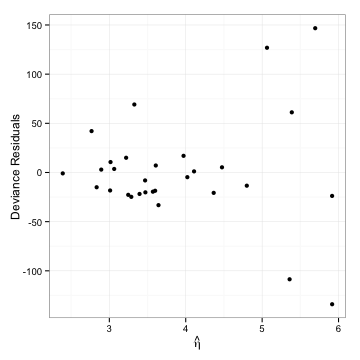
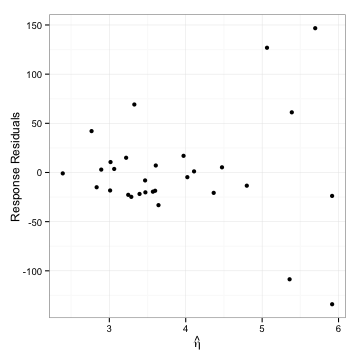
edits to gym

Changed region(s): [[0.0306, 0.3056, 0.0611, 0.6111]]

diff --git a/_site/categories/index.html b/_site/categories/index.html
@@ -82,7 +82,7 @@
             
                 <tr>
                     <td class = "tbl-date"><span>Nov 25, 2015</span></td>
-                    <td class = "tbl-post"><a href="/nhuyhoa//2015/11/GLM-Testing-and-Diagnostics.html">GLM: Hypothesis Testing & Diagnostics</a></td>
+                    <td class = "tbl-post"><a href="/nhuyhoa//2015/11/GLM-Testing-and-Diagnostics.html">GLM: Testing & Diagnostics</a></td>
                 </tr>
             
        

diff --git a/_site/blog/index.html b/_site/blog/index.html
@@ -116,7 +116,7 @@
 
         <tr>
             <td class = "tbl-date"><span>Nov 25, 2015</span></td>  
-            <td class = "tbl-post"><a href="/nhuyhoa//2015/11/GLM-Testing-and-Diagnostics.html">GLM: Hypothesis Testing & Diagnostics</a></td>
+            <td class = "tbl-post"><a href="/nhuyhoa//2015/11/GLM-Testing-and-Diagnostics.html">GLM: Testing & Diagnostics</a></td>
         </tr> 
      
 <!--

diff --git a/_posts/2015-11-25-GLM-Testing-and-Diagnostics.md b/_posts/2015-11-25-GLM-Testing-and-Diagnostics.md
@@ -1,6 +1,6 @@
 ---
 layout: post
-title: "GLM: Hypothesis Testing & Diagnostics"
+title: "GLM: Testing & Diagnostics"
 date: "November 25, 2015"
 categories: statistics
 ---
@@ -16,18 +16,22 @@ categories: statistics
 * Saturated model: model with n obs and n parameters, each data point has its own parameter
 * Proposed model: model with p parameters, model that you fit
 
+## Deviance
 Deviance is defined as 
 $$ D(y) = -2 \left( L(y \vert \hat{\theta}_m)) - L(y \vert \hat{\theta}_s)) \right) $$
 
-where $$L$$ denotes the log likelihood, $$\hat{\theta}_m$$ denotes fitted values for the proposed model and $$\hat{\theta}_s$$ denotes fitted values for the saturated model. 
+where $$L$$ denotes the log likelihood, $$\hat{\theta}_m$$ denotes fitted values for the proposed model and $$\hat{\theta}_s$$ denotes fitted values for the saturated model.
+
 The deviance is asymptotically distributed $$X^2_p$$.
 
-There are two types of hypothesis tests that can be done with GLMs.
+## Pearson X2
+The Pearson $$X^2$$ statistic is
+$$X^2 = \Sigma_i \frac{(y_i - \hat{\mu}_i)^2}{var(\hat{\mu}_i)}$$
 
-* Goodness of fit: does the current model fit the data?
-* Compare two nested models, which one is better?
+The Pearson $$X^2$$ is asymptotically distributed $$X^2_p$$.
 
-Note that the goodness of fit is a comparison of two models (the proposed model and the saturated model).
+## Goodness of Fit Test
+Does the current model fit the data? The goodness of fit is a comparison of two models (the proposed model and the saturated model).
 
 We can fit a glm in R and assess goodness of fit.
 
@@ -82,7 +86,7 @@ With a $$p.value = 0.94$$, we can conclude that there is no evidence of lack of 
 
 
 {% highlight r %}
-# goodness of fit - using pearson
+# goodness of fit - using pearson X2
 pchisq(sum(residuals(mod1, "pearson")^2), mod1$df.residual, lower.tail = FALSE)
 {% endhighlight %}
 
@@ -91,10 +95,12 @@ pchisq(sum(residuals(mod1, "pearson")^2), mod1$df.residual, lower.tail = FALSE)
 {% highlight text %}
 ## [1] 0.9469181
 {% endhighlight %}
-Here we use the Pearson $$X^2$$ statistic
-$$X^2 = \Sigma_i \frac{(y_i - \hat{\mu}_i)^2}{var(\hat{\mu}_i)}$$
+We use the deviance residuals to compute the Pearson residuals $$X^2 = \Sigma r_{pearson}^2$$.
 
-which is computed via the Pearson residuals $$X^2 = \Sigma r_p^2$$
+We see that the result is comparable to the deviance.
+
+## Compare Two Models
+Compare two nested models, which one is better?
 
 
 {% highlight r %}
@@ -157,12 +163,21 @@ The results here indicate no need for a quadratic concentration term.
 
 # Diagnostics
 
+## What Can Go Wrong
+
+When we observe a deviance much larger than expected if the model was correct, we need to determine which aspects of the model specification is incorrect. 
+
+* Wrong structural form: didn't include the right predictors or predictors were not transformed or combined in correct way
+* Presence of outliers
+* Sparse data
+* Overdispersion: variance greater than assumed, which can arise when independent or identical assumptions are violated
+
 ## Residuals
 
 * Response residuals: $$y - \hat{\mu}$$ has non-constant variance
 * Pearson residuals: $$\frac{y - \hat{\mu}}{\sqrt{Var(\hat{\mu})}}$$  , where $$\Sigma r^2_p = X^2$$
 * Deviance residuals: $$sign(y - \hat{\mu}) \sqrt{d}_i$$, where $$\Sigma r^2_d = Deviance$$
-* Jackknife residuals: expensive to compute, but approximations are available
+* Jackknife residuals (studentized residuals): expensive to compute, but approximations are available
 
 ## Leverages
 Since GLMs use the IRWLS algorithm, the leverage values are affected by the weights. The hat matrix is defined by
@@ -231,11 +246,38 @@ When we plot using the response residuals, we will see variation patterns consis
 # response residuals vs fitted link
 qplot(y = residuals(mod, "response"), x = predict(mod, type = "link")) + 
   xlab(expression(hat(eta))) + 
-  ylab("Deviance Residuals")
+  ylab("Response Residuals")
 {% endhighlight %}
 
 <img src="/nhuyhoa/figure/source/2015-11-25-GLM-Testing-and-Diagnostics/unnamed-chunk-9-1.png" title="plot of chunk unnamed-chunk-9" alt="plot of chunk unnamed-chunk-9" style="display: block; margin: auto;" />
 Here we see a pattern of increasing variation consistent with the Poisson distribution. 
+
+### Half-Normal Plot
+We can plot the sorted absolute residuals to the quantiles of the half normal distribution to identify outliers. We look for points off the trend. (The examples used here are different from the model above).
+
+
+
+
+
+{% highlight r %}
+par(mfrow = c(1, 2))
+# half-normal of studentized residuals
+halfnorm(rstudent(modpl))
+# half-norm of leverages
+halfnorm(influence(modpl)$hat)
+{% endhighlight %}
+
+<img src="/nhuyhoa/figure/source/2015-11-25-GLM-Testing-and-Diagnostics/unnamed-chunk-11-1.png" title="plot of chunk unnamed-chunk-11" alt="plot of chunk unnamed-chunk-11" style="display: block; margin: auto;" />
+The half-norm plot of leverage seems to indicate that obs 25 may have high leverage. 
+
+
+{% highlight r %}
+# half-norm of cook's distance
+c <- halfnorm(cooks.distance(modpl))
+{% endhighlight %}
+
+<img src="/nhuyhoa/figure/source/2015-11-25-GLM-Testing-and-Diagnostics/unnamed-chunk-12-1.png" title="plot of chunk unnamed-chunk-12" alt="plot of chunk unnamed-chunk-12" style="display: block; margin: auto;" />
+The half-norm plot indicates that obs 25 has a big Cook's statistic. It might be useful to investigate this observation in closer detail. 
 
 ### Added Variable Plots
 Similar to regression, we can generate added variable plots. The interpretation is similar to linear models.

diff --git a/_posts/2015-11-26-GLM-Logistic-Regression.md b/_posts/2015-11-26-GLM-Logistic-Regression.md
@@ -15,8 +15,12 @@ Suppose the response $$Y_i$$ ~ $$Bin(n_i, p_i)$$ and the $$Y_i$$ are independent
 $$ P(Y_i = y_i) = \left(\begin{array}
 {rrr}
   n \\
-  y
-\end{array}\right) \mu^y (1-\mu)^{n - y} $$
+  y_i
+\end{array}\right) p_i^{y_i} (1-p_i)^{n_i - y_i} $$
+
+From this we can compute the deviance. 
+$$ D = 2 log \left( \frac{L_L}{L_S} \right) $$
+$$ D = 2 \Sigma^n_{i = 1} \big[ y_i log \left( \frac{y_i}{\hat{y}_i} \right) + (n_i - y_i) log \left( \frac{n_i - y_i}{n_i - \hat{y}_i} \right) \big] $$
 
 We face a few problems when our response variable has a binomial distribution. 
 
@@ -34,7 +38,7 @@ All of these link functions differ mostly at the tails. We will use the logit be
 # Logistic Regression Model
 
 We fit the model
-$$log \left( \frac{p}{1 - p} \right) = \beta_0 + \beta_1 x_1 + ... \beta_p x_p$$
+$$log \left( \frac{p}{1 - p} \right) = \beta_0 + \beta_1 x_1 + ... \beta_k x_k$$
 
 We can fit this model in R like so
 
@@ -46,9 +50,6 @@ Here we provide two pieces of information regarding the response. The first colu
 
 Here we see a graphical representation of the data and how well it fits the data. 
 <img src="/nhuyhoa/figure/source/2015-11-26-GLM-Logistic-Regression/unnamed-chunk-3-1.png" title="plot of chunk unnamed-chunk-3" alt="plot of chunk unnamed-chunk-3" style="display: block; margin: auto;" />
-
-# Model Evaluation
-Assessing model fit can be done using deviance. See [GLM: Hypothesis Testing & Diagnostics][glm_diagnostic_link]{:target="blank"}.
 
 # Understanding Output
 
@@ -107,17 +108,20 @@ $$ p = \frac{o}{1 + o} $$
 where $$p$$ is the probability of success and $$o$$ is the odds. 
 
 Odds provide a simple interpretation of the $$\hat{\beta}$$ coefficients in logistic regression. 
-$$log(odds \vert x_1 = x + 1) = \beta_0 + \beta_1 (x + 1) + ... + \beta_p x_p$$
-$$log(odds \vert x_1 = x) = \beta_0 + \beta_1 x + ... + \beta_p x_p$$
+$$log(odds \vert x_1 = x + 1) = \beta_0 + \beta_1 (x + 1) + ... + \beta_k x_k$$
+$$log(odds \vert x_1 = x) = \beta_0 + \beta_1 x + ... + \beta_k x_k$$
 
 Then 
 $$ log(odds \vert x_1 = x + 1) - log(odds \vert x_1 = x) = \beta_1 $$
 $$ log \left( \frac{odds \vert x_1 = x + 1}{odds \vert x_1 = x} \right) = \beta_1 $$
+
 $$ \frac{odds \vert x_1 = x + 1}{odds \vert x_1 = x} = e^{\beta_1} $$
 
 Thus we can interpret the $$\beta_1$$ coefficient as follows: holding all other covariates constant, a unit increase in $$x_1$$ increases the odds of success by a factor of exp $$\beta_1$$.
 
-# Prediction Confidence Intervals
+# Predicted Values
+
+## Prediction Confidence Intervals
 For a given set $$ x_0 $$, we can predict the reponse.
 
 Procedure:
@@ -132,7 +136,7 @@ We can also use built in R functions:
 * Predict $$\hat{\eta}$$: `predict(object, newdata, type = "link")`
 * Predict $$\hat{\mu}$$: `predict(object, newdata, type = "response")`
 
-# Effective Dose 
+## Effective Dose 
 We can find the $$x$$ value in which there is a $$50$$% chance of success. 
 
 One variable case:
@@ -141,15 +145,19 @@ $$ 0 = \beta_0 + \beta_1 x_1 $$
 $$ x_1 = -\frac{\beta_0}{\beta_1} $$
 
 Multiple variables:
-$$log \left( \frac{0.5}{1 - 0.5} \right) = \beta_0 + \beta_1 x_1 + ... + \beta_p x_p$$
-$$ 0 = \beta_0 + \beta_1 x_1 + ... + \beta_p x_p $$
-$$ x_1 = -\frac{\beta_0 + \beta_2 x_2 + ... + \beta_p x_p}{\beta_1} $$
+$$log \left( \frac{0.5}{1 - 0.5} \right) = \beta_0 + \beta_1 x_1 + ... + \beta_k x_k$$
+$$ 0 = \beta_0 + \beta_1 x_1 + ... + \beta_k x_k $$
+$$ x_1 = -\frac{\beta_0 + \beta_2 x_2 + ... + \beta_k x_k}{\beta_1} $$
 
 To determine the standard error of this estimate, we can use the delta method. 
 
 $$ var[g(\hat{\theta})] = g'(\hat{\theta})' var[\hat{\theta}] g'(\hat{\theta}) $$
 
 We can also use the built in R function: `MASS::dose.p()`
+
+# Model Evaluation & Diagnostics
+See [GLM: Hypothesis Testing & Diagnostics][glm_diagnostic_link]{:target="blank"}.
+
 
 [glm_diagnostic_link]: http://jnguyen92.github.io/nhuyhoa//2015/11/GLM-Testing-and-Diagnostics.html
 

diff --git a/_posts/2015-11-13-Regression-Diagnostics.md b/_posts/2015-11-13-Regression-Diagnostics.md
@@ -49,7 +49,7 @@ where $$\frac{r_i^2}{n - p}$$ ~ $$Beta(\frac{1}{2}, \frac{1}{2}(n - p - 1))$$
 Externally standardized residuals (jackknife residuals) are defined as 
 $$ t_i = \frac{\hat{\epsilon}_i }{\hat{\sigma}_{(i)} \sqrt{1 - h_{ii}}}$$ 
 
-where $$(i)$$ represents the estimate with the $$i^{th}$$ entry deleted to stem the effect of outliers. If $$ \vert t_i \vert > 2$$, we consider that a large residual.
+where $$(i)$$ represents the estimate with the $$i^{th}$$ entry deleted. If $$ \vert t_i \vert > 2$$, we consider that a large residual.
 
 Notice that residuals refer to extreme $$y$$-values. 
 
